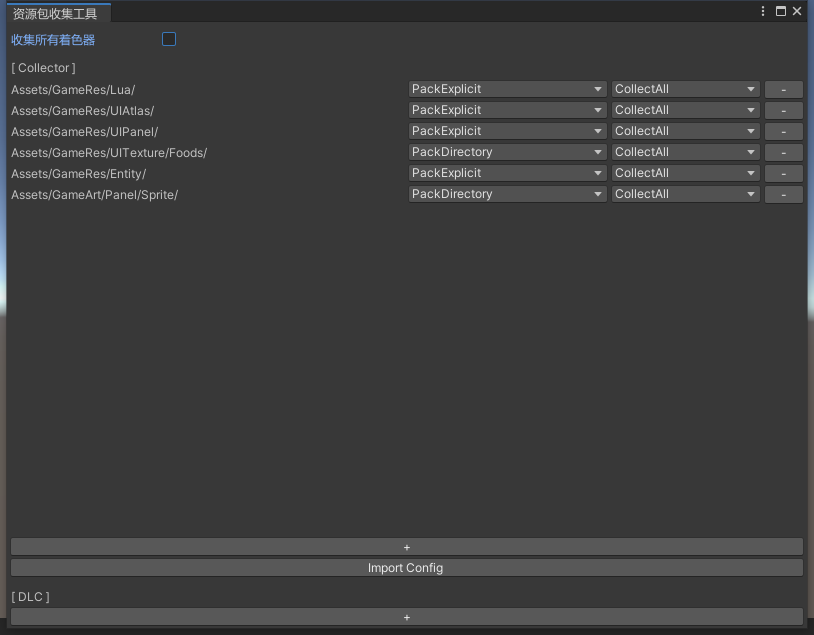
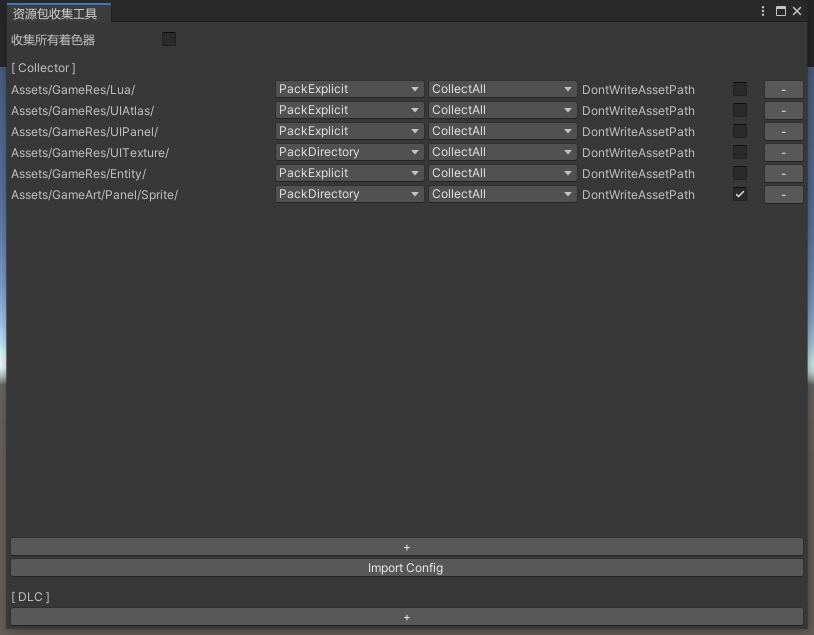
Update document

diff --git a/Docs/Editor.AssetBundleCollector.md b/Docs/Editor.AssetBundleCollector.md
@@ -15,15 +15,15 @@
 <root>
 	
 	<!--注释-->
-	<Collector Directory="Assets/GameRes/Lua/" PackRuleClass="PackExplicit" FilterRuleClass="CollectAll"/>
-	<Collector Directory="Assets/GameRes/UIAtlas/" PackRuleClass="PackExplicit" FilterRuleClass="CollectAll"/>
-	<Collector Directory="Assets/GameRes/UIPanel/" PackRuleClass="PackExplicit" FilterRuleClass="CollectAll"/>
-	<Collector Directory="Assets/GameRes/UITexture/Foods/" PackRuleClass="PackExplicit" FilterRuleClass="CollectAll"/>
-	<Collector Directory="Assets/GameRes/UITexture/Background/" PackRuleClass="PackExplicit" FilterRuleClass="CollectAll"/>
-	<Collector Directory="Assets/GameRes/Entity/" PackRuleClass="PackExplicit" FilterRuleClass="CollectAll"/>
+	<Collector Directory="Assets/GameRes/Lua/" PackRule="PackExplicit" FilterRule="CollectAll" DontWriteAssetPath="0"/>
+	<Collector Directory="Assets/GameRes/UIAtlas/" PackRule="PackExplicit" FilterRule="CollectAll" DontWriteAssetPath="0"/>
+	<Collector Directory="Assets/GameRes/UIPanel/" PackRule="PackExplicit" FilterRule="CollectAll" DontWriteAssetPath="0"/>
+	<Collector Directory="Assets/GameRes/UITexture/Foods/" PackRule="PackExplicit" FilterRule="CollectAll" DontWriteAssetPath="0"/>
+	<Collector Directory="Assets/GameRes/UITexture/Background/" PackRule="PackExplicit" FilterRule="CollectAll" DontWriteAssetPath="0"/>
+	<Collector Directory="Assets/GameRes/Entity/" PackRule="PackExplicit" FilterRule="CollectAll" DontWriteAssetPath="0"/>
 
 	<!--精灵-->
-	<Collector Directory="Assets/GameArt/Panel/Sprite/" PackRuleClass="PackDirectory" FilterRuleClass="CollectAll"/>
+	<Collector Directory="Assets/GameArt/Panel/Sprite/" PackRule="PackDirectory" FilterRule="CollectAll" DontWriteAssetPath="1"/>
 	
 </root>
 ```
@@ -35,15 +35,11 @@ using UnityEngine;
 using UnityEditor;
 using MotionFramework.Editor;
 
-public class PackCustom : IPackRule
+public class PackExplicit : IPackRule
 {
-	/// <summary>
-	/// 获取资源的打包标签
-	/// </summary>
 	string IPackRule.GetAssetBundleLabel(string assetPath)
 	{
-		// Your code in here
-		throw new System.NotImplementedException();
+		return assetPath.RemoveExtension();
 	}
 }
 

diff --git a/Docs/Editor.AssetBundleBuilder.md b/Docs/Editor.AssetBundleBuilder.md
@@ -65,7 +65,7 @@ private static void BuildInternal(BuildTarget buildTarget)
 	buildParameters.OutputRoot = defaultOutputRoot;
 	buildParameters.BuildTarget = buildTarget;
 	buildParameters.BuildVersion = buildVersion;
-	buildParameters.CompressOption = AssetBundleBuilder.ECompressOption.ChunkBasedCompressionLZ4;
+	buildParameters.CompressOption = ECompressOption.LZ4;
 	buildParameters.IsForceRebuild = isForceBuild;
 
 	// 执行构建
